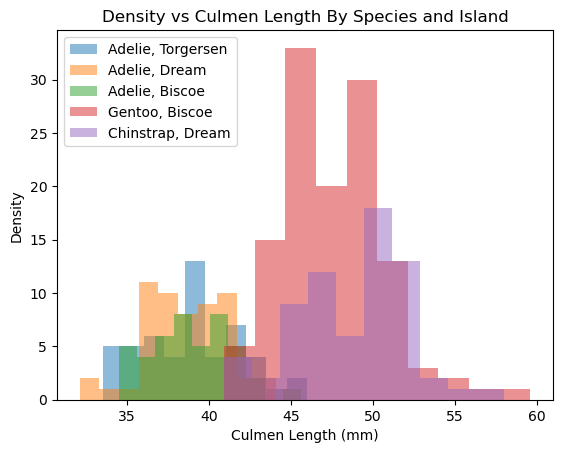
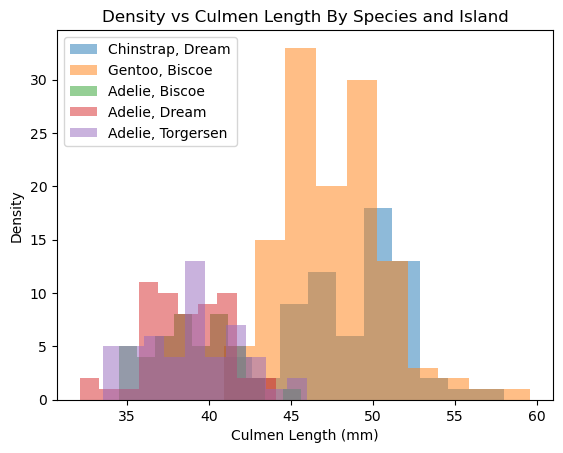
Built site for gh-pages

Changed region(s): [[0.1208, 0.0927, 0.9663, 0.8962], [0.1812, 0.2163, 0.4227, 0.3091], [0.1812, 0.0927, 0.4227, 0.1854]]

diff --git a/index.html b/index.html
@@ -191,7 +191,7 @@ window.Quarto = {
 <!-- margin-sidebar -->
     <div id="quarto-margin-sidebar" class="sidebar margin-sidebar">
         
-    <h5 class="quarto-listing-category-title">Categories</h5><div class="quarto-listing-category category-default"><div class="category" data-category="">All <span class="quarto-category-count">(6)</span></div><div class="category" data-category="V2VlayUyMDM=">Week 3 <span class="quarto-category-count">(1)</span></div><div class="category" data-category="YW5hbHlzaXM=">analysis <span class="quarto-category-count">(1)</span></div><div class="category" data-category="Y29kZQ==">code <span class="quarto-category-count">(1)</span></div><div class="category" data-category="ZXhhbXBsZQ==">example <span class="quarto-category-count">(1)</span></div><div class="category" data-category="bmV3cw==">news <span class="quarto-category-count">(2)</span></div><div class="category" data-category="d2VlayUyMDM=">week 3 <span class="quarto-category-count">(1)</span></div></div></div>
+    <h5 class="quarto-listing-category-title">Categories</h5><div class="quarto-listing-category category-default"><div class="category" data-category="">All <span class="quarto-category-count">(7)</span></div><div class="category" data-category="V2VlayUyMDM=">Week 3 <span class="quarto-category-count">(1)</span></div><div class="category" data-category="YW5hbHlzaXM=">analysis <span class="quarto-category-count">(1)</span></div><div class="category" data-category="Y29kZQ==">code <span class="quarto-category-count">(1)</span></div><div class="category" data-category="ZXhhbXBsZQ==">example <span class="quarto-category-count">(2)</span></div><div class="category" data-category="bmV3cw==">news <span class="quarto-category-count">(2)</span></div><div class="category" data-category="d2VlayUyMDM=">week 3 <span class="quarto-category-count">(2)</span></div></div></div>
 <!-- main -->
 <main class="content quarto-banner-title-block column-page-left" id="quarto-document-content">
 
@@ -285,7 +285,43 @@ Joshua Antilla
 </a>
 </div>
 </div>
-<div class="quarto-post image-right" data-index="3" data-categories="bmV3cyUyQ2NvZGUlMkNhbmFseXNpcw==" data-listing-date-sort="1737878400000" data-listing-file-modified-sort="1737939527781" data-listing-date-modified-sort="NaN" data-listing-reading-time-sort="1" data-listing-word-count-sort="7">
+<div class="quarto-post image-right" data-index="3" data-categories="d2VlayUyMDMlMkNleGFtcGxl" data-listing-date-sort="1737964800000" data-listing-file-modified-sort="1738019980549" data-listing-date-modified-sort="NaN" data-listing-reading-time-sort="1" data-listing-word-count-sort="12">
+<div class="thumbnail">
+<p><a href="./posts/hw0.html" class="no-external"></a></p><a href="./posts/hw0.html" class="no-external">
+<p class="card-img-top"><img src="posts/hw0_files/figure-html/cell-3-output-1.png"  class="thumbnail-image card-img"/></p>
+</a><p><a href="./posts/hw0.html" class="no-external"></a></p>
+</div>
+<div class="body">
+<h3 class="no-anchor listing-title">
+<a href="./posts/hw0.html" class="no-external">HW0</a>
+</h3>
+<div class="listing-subtitle">
+<a href="./posts/hw0.html" class="no-external"></a>
+</div>
+<div class="listing-categories">
+<div class="listing-category" onclick="window.quartoListingCategory('d2VlayUyMDM='); return false;">
+week 3
+</div>
+<div class="listing-category" onclick="window.quartoListingCategory('ZXhhbXBsZQ=='); return false;">
+example
+</div>
+</div>
+<div class="listing-description">
+<a href="./posts/hw0.html" class="no-external">Tutorial for Visualizing Palmer Penguins data with a Histogram</a>
+</div>
+</div>
+<div class="metadata">
+<a href="./posts/hw0.html" class="no-external">
+<div class="listing-date">
+Jan 27, 2025
+</div>
+<div class="listing-author">
+Joshua Antilla
+</div>
+</a>
+</div>
+</div>
+<div class="quarto-post image-right" data-index="4" data-categories="bmV3cyUyQ2NvZGUlMkNhbmFseXNpcw==" data-listing-date-sort="1737878400000" data-listing-file-modified-sort="1737939527781" data-listing-date-modified-sort="NaN" data-listing-reading-time-sort="1" data-listing-word-count-sort="7">
 <div class="thumbnail">
 <p><a href="./posts/post-with-code/index.html" class="no-external"></a></p><a href="./posts/post-with-code/index.html" class="no-external">
 <p><img loading="lazy" src="./posts/post-with-code/image.jpg" class="thumbnail-image"></p>
@@ -324,7 +360,7 @@ Harlow Malloc
 </a>
 </div>
 </div>
-<div class="quarto-post image-right" data-index="4" data-categories="bmV3cw==" data-listing-date-sort="1737619200000" data-listing-file-modified-sort="1737948659495" data-listing-date-modified-sort="NaN" data-listing-reading-time-sort="1" data-listing-word-count-sort="32">
+<div class="quarto-post image-right" data-index="5" data-categories="bmV3cw==" data-listing-date-sort="1737619200000" data-listing-file-modified-sort="1737948659495" data-listing-date-modified-sort="NaN" data-listing-reading-time-sort="1" data-listing-word-count-sort="32">
 <div class="thumbnail">
 <p><a href="./posts/welcome/index.html" class="no-external"></a></p><a href="./posts/welcome/index.html" class="no-external">
 <p class="card-img-top"><img src="posts/welcome/thumbnail.jpg"  class="thumbnail-image card-img"/></p>
@@ -357,7 +393,7 @@ Tristan O’Malley
 </a>
 </div>
 </div>
-<div class="quarto-post image-right" data-index="5" data-categories="V2VlayUyMDM=" data-listing-date-sort="1737446400000" data-listing-file-modified-sort="1738002756189" data-listing-date-modified-sort="NaN" data-listing-reading-time-sort="3" data-listing-word-count-sort="503">
+<div class="quarto-post image-right" data-index="6" data-categories="V2VlayUyMDM=" data-listing-date-sort="1737446400000" data-listing-file-modified-sort="1738002756189" data-listing-date-modified-sort="NaN" data-listing-reading-time-sort="3" data-listing-word-count-sort="503">
 <div class="thumbnail">
 <p><a href="./posts/bruin/index.html" class="no-external"></a></p><a href="./posts/bruin/index.html" class="no-external">
 <p><img loading="lazy" src="./posts/bruin/index_files/figure-html/cell-3-output-1.png" class="thumbnail-image"></p>

diff --git a/posts/hw0.html b/posts/hw0.html
@@ -192,7 +192,7 @@ pre > code.sourceCode > span > a:first-child::before { text-decoration: underlin
 <p>Tutorial for Visualizing Palmer Penguins data with a Histogram</p>
 <section id="importing-libraries-and-reading-data" class="level1">
 <h1>Importing Libraries and Reading Data</h1>
-<div id="02fc535a-b793-4848-902b-d8e67d71b780" class="cell" data-tags="[]" data-execution_count="25">
+<div id="02fc535a-b793-4848-902b-d8e67d71b780" class="cell" data-tags="[]" data-execution_count="1">
 <div class="sourceCode cell-code" id="cb1"><pre class="sourceCode python code-with-copy"><code class="sourceCode python"><span id="cb1-1"><a href="#cb1-1" aria-hidden="true" tabindex="-1"></a><span class="co">#import pandas and pyplot, and read in the url of the data</span></span>
 <span id="cb1-2"><a href="#cb1-2" aria-hidden="true" tabindex="-1"></a><span class="im">import</span> pandas <span class="im">as</span> pd</span>
 <span id="cb1-3"><a href="#cb1-3" aria-hidden="true" tabindex="-1"></a><span class="im">import</span> matplotlib.pyplot <span class="im">as</span> plt</span>
@@ -202,7 +202,7 @@ pre > code.sourceCode > span > a:first-child::before { text-decoration: underlin
 </section>
 <section id="creating-the-plot" class="level1">
 <h1>Creating the Plot</h1>
-<div id="0c1183d1-a9e1-4038-9635-c617b24a24d3" class="cell" data-tags="[]" data-execution_count="26">
+<div id="0c1183d1-a9e1-4038-9635-c617b24a24d3" class="cell" data-tags="[]" data-execution_count="2">
 <div class="sourceCode cell-code" id="cb2"><pre class="sourceCode python code-with-copy"><code class="sourceCode python"><span id="cb2-1"><a href="#cb2-1" aria-hidden="true" tabindex="-1"></a><span class="co">#Create empty plot</span></span>
 <span id="cb2-2"><a href="#cb2-2" aria-hidden="true" tabindex="-1"></a>fig, ax <span class="op">=</span> plt.subplots()</span>
 <span id="cb2-3"><a href="#cb2-3" aria-hidden="true" tabindex="-1"></a></span>
